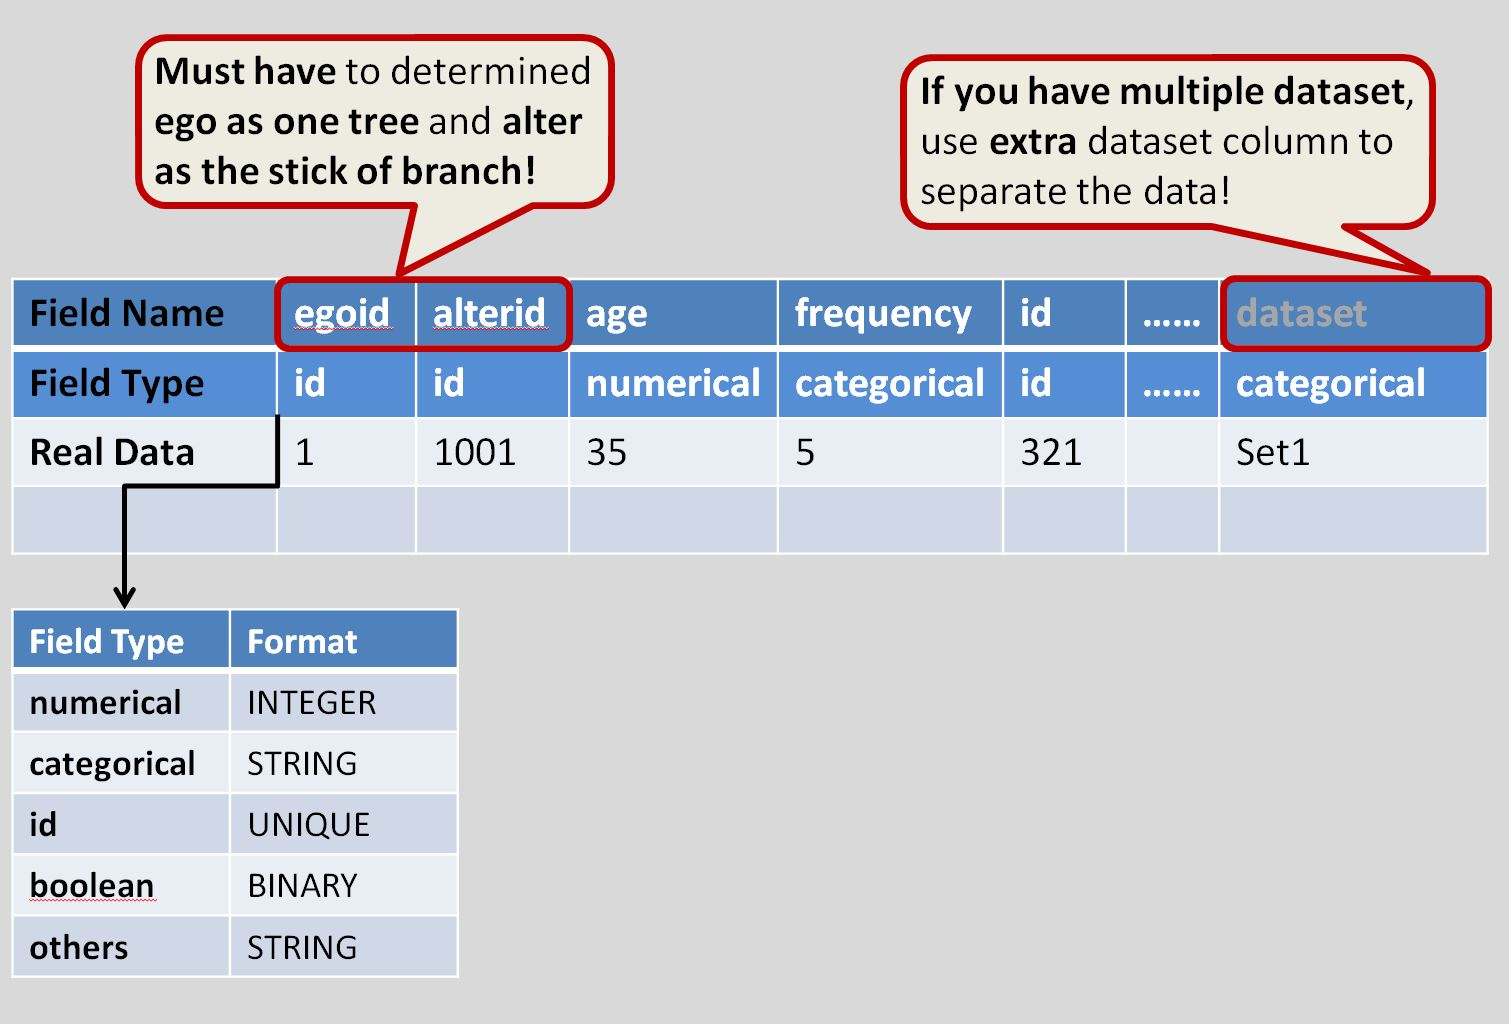
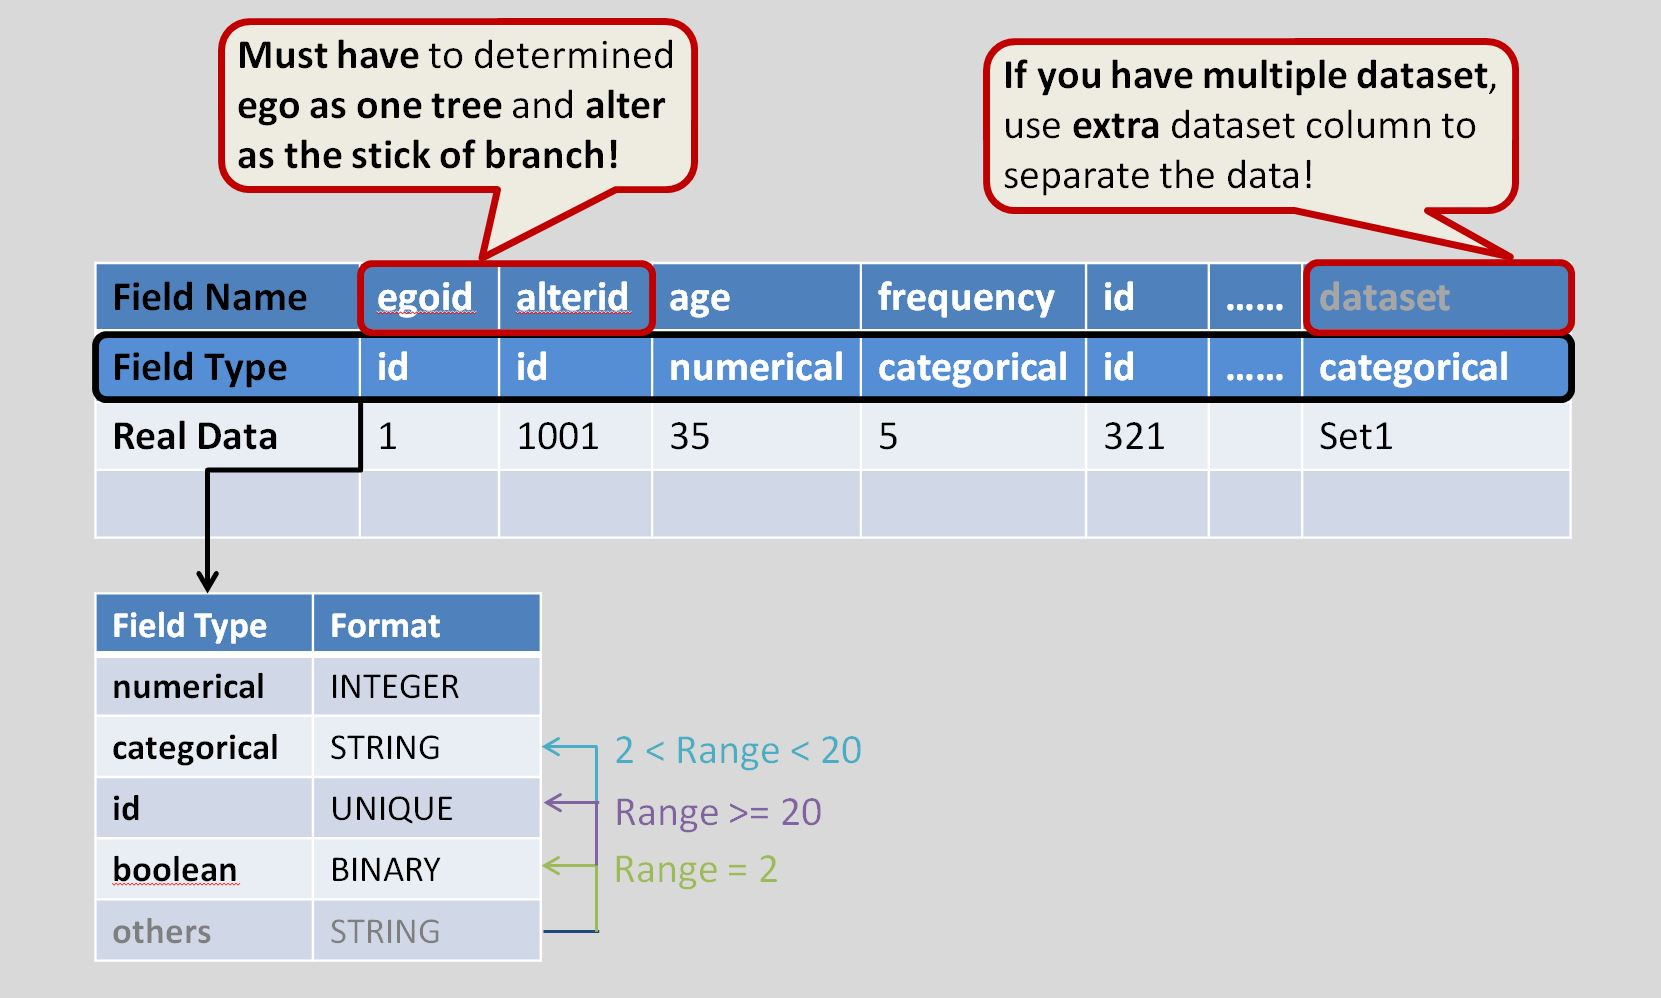
update import format

diff --git a/contact_tree/media/js/data_uploading.js b/contact_tree/media/js/data_uploading.js
@@ -20,9 +20,10 @@ var UploadView = Backbone.View.extend({
         // open the dialog
         $( "#import_dialog" ).dialog({
             autoOpen: false,
-            height: 500,
+            height: 600,
             width: 600,
-            modal: true
+            modal: true,
+            resizable: false
         });
 
         $( "#import" ).click(function() {
@@ -102,6 +103,9 @@ var UploadView = Backbone.View.extend({
                         for(var i = 1; i < err[obj].length; i ++)
                              error_text += ', "' + err[obj][i] + '"';
                     }
+                    if(obj == "lackofdata"){
+                        error_text += 'Lack of useful attrubutes...<br>';
+                    }
                     
                 error_text += "<br>"
                 }
@@ -136,7 +140,7 @@ var UploadView = Backbone.View.extend({
                     
                 else{
                     var report_text = set_error(result);
-                    console.log(report_text);
+                    // console.log(report_text);
                     $('#err_report').html(report_text);
                 }
                 $("#filename").removeAttr("disabled");

diff --git a/contact_tree/templates/index.html b/contact_tree/templates/index.html
@@ -305,7 +305,7 @@
 
 
     <div id="import_dialog" title="Import Data File" class="popup_window_title" style="overflow:hidden;">
-        <span class="left myfont3 description_box" style="margin-top:3px;">
+        <!-- <span class="left myfont3 description_box" style="margin-top:3px;">
             1. Choose a .csv file <br>
             2. Data must contain egoid column as each tree represent one ego <br>
             3. Data must contain alterid column as each stick in this tree is one alterid <br>
@@ -313,7 +313,8 @@
             5. If you have missing data, please fill it with a value or fill with -1 as missing <br>
             6. Data inside should be a categorical data or we will automatically category the attribute as an id data if all the distinct data is > 15 <br>
             7. Upload it or check the data format or cancel it <br>
-        </span>
+        </span> -->
+        <img src="media/img/upload_instructure.jpg" align="middle" style="width:100%; padding-top:5px;"></img>
         <form id="upload_form" name="upload_form" class="left" style="width:60%; margin-top:5px;">
             <input type="file" name="usercsv2upload" id="filename"></input>
         </form>

diff --git a/contact_tree/query.py b/contact_tree/query.py
@@ -127,8 +127,9 @@ def test_type(table, attr_type):
     final_attr_info["default"] = []
     # final_attr_info["incat"] = []
     final_attr_info["inbool"] = []
+    # final_attr_info["lackdata"] = []
 
-    
+    useful_data = 0
     temp_default = []
     for field in attr_type:
         print field
@@ -141,14 +142,26 @@ def test_type(table, attr_type):
         if field != 'e_id' and field != 'egoid' and field != 'alterid':
             attr_info[field] = dict()
             attr_info[field]["TYPE"] = attr_type[field]               
-            # if attr_type[field] == 'categorical':    
-            if attr_type[field] == 'numerical':
+            if attr_type[field] == 'categorical':
+                # print 'SELECT MIN(`' + field + '`), MAX(`' + field + '`), COUNT(DISTINCT(`' + field + '`)) FROM ' + table + ' WHERE `'+ field + '` is not NULL;'
+                a_cur = db.query('SELECT MIN(`' + field + '`), MAX(`' + field + '`), COUNT(DISTINCT(`' + field + '`)) FROM ' + table + ' WHERE `'+ field + '` is not NULL;')
+                f_val = a_cur.fetchone()
+                # attr_info[field] = dict()
+                for ff in f_val:
+                    attr_info[field][ff.split("(")[0]] = f_val[ff]
+                # if attr_info[f]["COUNT"] > 20:
+                #     final_attr_info["incat"].append(f)
+                attr_info[field]["RANGE"] = attr_info[field]["COUNT"]
+                useful_data += 1
+
+            elif attr_type[field] == 'numerical':
                 a_cur = db.query('SELECT MIN(cast(`' + field + '` as unsigned)), MAX(cast(`' + field + '` as unsigned)) FROM ' + table + ' WHERE `'+ field + '` is not NULL;')
                 f_val = a_cur.fetchone()
                 # attr_info[field] = dict()
                 for ff in f_val:
                     attr_info[field][ff.split("(")[0]] = f_val[ff]
                 attr_info[field]["RANGE"] = attr_info[field]["MAX"] - attr_info[field]["MIN"] + 1
+                useful_data += 1
             
             elif attr_type[field] == 'boolean':
                 a_cur = db.query('SELECT MIN(`' + field + '`), MAX(`' + field + '`), COUNT(DISTINCT(`' + field + '`)) FROM ' + table + ' WHERE `'+ field + '` is not NULL;')
@@ -159,6 +172,7 @@ def test_type(table, attr_type):
                 if attr_info[field]["COUNT"] > 2:
                     final_attr_info["inbool"].append(field)
                 attr_info[field]["RANGE"] = attr_info[field]["COUNT"]
+                useful_data += 1
             else:
                 # print 'SELECT MIN(`' + field + '`), MAX(`' + field + '`), COUNT(DISTINCT(`' + field + '`)) FROM ' + table + ' WHERE `'+ field + '` is not NULL;'
                 a_cur = db.query('SELECT MIN(`' + field + '`), MAX(`' + field + '`), COUNT(DISTINCT(`' + field + '`)) FROM ' + table + ' WHERE `'+ field + '` is not NULL;')
@@ -170,7 +184,19 @@ def test_type(table, attr_type):
                 #     final_attr_info["incat"].append(f)
                 attr_info[field]["RANGE"] = attr_info[field]["COUNT"]
 
+                if attr_info[field]["COUNT"] == 2:
+                    attr_info[field]["TYPE"] = "boolean"
+                    useful_data += 1
+                elif attr_info[field]["COUNT"] < 20:
+                    attr_info[field]["TYPE"] = "categorical"
+                    useful_data += 1
+                else:
+                    attr_info[field]["TYPE"] = "id"
+
             # else:
+
+    if useful_data < 5:
+        return [{"lackofdata": [useful_data]}, attr_info]
 
     if defult_col == 2:
         if len(final_attr_info["inbool"]) == 0:
